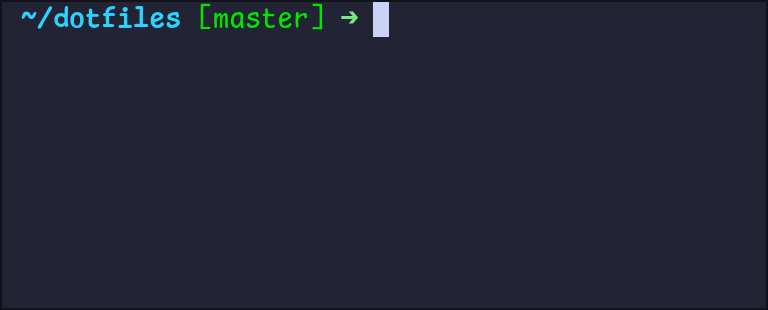
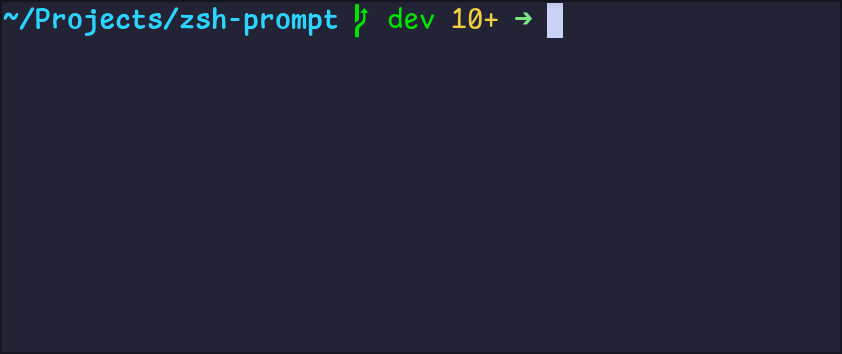
added theme generation, moved information to data.json, updated vcs info, better vcs tracking

Changed region(s): [[0.0, 0.0, 0.6875, 0.1161]]

diff --git a/generate.py b/generate.py
@@ -1,13 +1,30 @@
-COLOR1=#2bd4ff
-COLOR2=#00e600
-COLOR3=#9fffcb
-COLOR4=#7ae582
-COLOR_CHANGE=#f4d03f
+def obj_get(config):
+    return lambda key, default_value="": config[key] if key in config else default_value
 
-ICON_LEFT=""
-ICON_RIGHT=""
-ICON_ARROW="➔"
-ICON_VCS_BRANCH=""
+
+def generate(config):
+    get = obj_get(config)
+
+    COLOR1 = get("COLOR1", "#ffffff")
+    COLOR2 = get("COLOR2", "#ffffff")
+    COLOR3 = get("COLOR3", "#ffffff")
+    COLOR4 = get("COLOR4", "#ffffff")
+    COLOR_CHANGE = get("COLOR_CHANGE", "#ffffff")
+    ICON_LEFT = get("ICON_LEFT", "")
+    ICON_RIGHT = get("ICON_LEFT", "")
+    ICON_ARROW = get("ICON_ARROW", ">")
+    ICON_VCS_BRANCH = get("ICON_BRANCH")
+
+    return r"""COLOR1={}
+COLOR2={}
+COLOR3={}
+COLOR4={}
+COLOR_CHANGE={}
+
+ICON_LEFT="{}"
+ICON_RIGHT="{}"
+ICON_ARROW="{}"
+ICON_VCS_BRANCH="{}"
 
 autoload -Uz vcs_info
 autoload -Uz add-zsh-hook
@@ -15,20 +32,20 @@ autoload -Uz add-zsh-hook
 zstyle ":vcs_info:*" enable git svn
 zstyle ":vcs_info:*" check-for-changes true
 
-git_info() {
+git_info() {{
   local ref
   ref=$(git symbolic-ref HEAD 2> /dev/null) || \
   ref=$(git rev-parse --short HEAD 2> /dev/null) || return 0
 
-  local branch="${ref#refs/heads/}"
+  local branch="${{ref#refs/heads/}}"
 
-  local changes=$(git status --porcelain | awk '{print substr($0, 1, 2)}' | sort | uniq -c | sed -e 's/^[[:space:]]*//')
+  local changes=$(git status --porcelain | awk '{{print substr($0, 1, 2)}}' | sort | uniq -c | sed -e 's/^[[:space:]]*//')
 
   local change_status=""
 
   while IFS= read -r line; do
-    count=$(echo $line | awk '{print $1}')
-    code=${line: -2}
+    count=$(echo $line | awk '{{print $1}}')
+    code=${{line: -2}}
 
     case "$code" in
       "??") untracked=$((untracked + count)) ;;
@@ -57,23 +74,23 @@ git_info() {
   fi
 
   echo $res
-}
+}}
 
-text_bg() {
-  echo "%{%F{$1}%K{$2}%}"
-}
+text_bg() {{
+  echo "%{{%F{{$1}}%K{{$2}}%}}"
+}}
 
-text() {
-  echo "%F{$1}"
-}
+text() {{
+  echo "%F{{$1}}"
+}}
 
-bg() {
-  echo "%K{$1}"
-}
+bg() {{
+  echo "%K{{$1}}"
+}}
 
 local reset="%f%k"
 
-build_prompt() {
+build_prompt() {{
   local p=""
 
   p+=$(text $COLOR1)
@@ -89,7 +106,7 @@ build_prompt() {
   p+=$reset
 
   PROMPT="$p "
-}
+}}
 
 setopt prompt_subst
 
@@ -97,3 +114,14 @@ add-zsh-hook precmd build_prompt
 add-zsh-hook chpwd build_prompt
 
 build_prompt
+""".format(
+        COLOR1,
+        COLOR2,
+        COLOR3,
+        COLOR4,
+        COLOR_CHANGE,
+        ICON_LEFT,
+        ICON_RIGHT,
+        ICON_ARROW,
+        ICON_VCS_BRANCH,
+    )

diff --git a/setup.py b/setup.py
@@ -1,0 +1,93 @@
+#!/usr/bin/env python3
+
+import os
+import json
+from generate import generate
+from os.path import isfile
+from util import prompt, yn
+
+print(
+    """
+__        __   _                          _
+\\ \\      / /__| | ___ ___  _ __ ___   ___| |
+ \\ \\ /\\ / / _ \\ |/ __/ _ \\| '_ ` _ \\ / _ \\ |
+  \\ V  V /  __/ | (_| (_) | | | | | |  __/_|
+   \\_/\\_/ \\___|_|\\___\\___/|_| |_| |_|\\___(_)
+
+"""
+)
+
+root = os.path.expanduser("~") + "/shiko-prompt/"
+
+
+def pick_prebuilt():
+    themes = root + "themes/"
+    prebuilt_themes = themes + "prebuilt/"
+
+    previous = []
+    prebuilt = []
+    for filename in os.listdir(themes):
+        file_path = os.path.join(themes, filename)
+
+        if isfile(file_path):
+            previous.append(file_path)
+
+    for filename in os.listdir(prebuilt_themes):
+        file_path = os.path.join(prebuilt_themes, filename)
+
+        if isfile(file_path):
+            prebuilt.append(file_path)
+
+    print(f"Previous themes: {len(previous)}")
+    for i in range(len(previous)):
+        print(f"{i + 1}. {previous[i]}")
+    print(f"Prebuilt themes: {len(prebuilt)}")
+    for i in range(len(prebuilt)):
+        print(f"{i + 1}. {prebuilt[i]}")
+
+    print("Would you like to use a previously generated theme or a prebuilt theme?")
+    prev_or_prebuilt = prompt(["Previously generated", "Prebuilt"])
+
+    theme = ""
+
+    print("Pick a theme:")
+    if prev_or_prebuilt == 1:
+        theme = previous[prompt(previous) - 1]
+    elif prev_or_prebuilt == 2:
+        theme = prebuilt[prompt(prebuilt) - 1]
+
+    try:
+        with open(theme) as f:
+            json_cfg = dict(json.load(f))
+
+            cfg = generate(json_cfg)
+
+            print("Config generated!")
+            print(cfg)
+            save = yn("Would you like to save this prompt?")
+
+            if save:
+                with open(root + "prompt.zsh", "w") as f:
+                    f.write(cfg)
+                    return
+            else:
+                print("Changes discarded. Exiting...")
+                exit(0)
+    except Exception as e:
+        print(f"An error occurred: {e}")
+
+    pass
+
+
+def build_own():
+    pass
+
+
+if __name__ == "__main__":
+    options_funcs = [pick_prebuilt, build_own, exit]
+    options = ["Use a prebuilt theme", "Build your own theme", "Exit"]
+
+    choice = prompt(options)
+
+    options_funcs[int(choice) - 1]()
+    print("Run 'source ~/.zshrc' to see the new changes!")

diff --git a/util.py b/util.py
@@ -1,0 +1,30 @@
+from typing import List
+
+
+def prompt(options: List[str]) -> int:
+    while True:
+        for i in range(len(options)):
+            print(f"{i + 1}. {options[i]}")
+        try:
+            choice = int(input("> "))
+            if choice < 1 or choice > len(options):
+                raise Exception()
+            return choice
+        except KeyboardInterrupt:
+            print("Exiting...")
+            exit()
+        except:
+            print("Invalid choice, please try again")
+
+
+def yn(prompt: str, default_value=True) -> bool:
+    while True:
+        choice = input(f"{prompt} ({"Y/n" if default_value else "y/N"}) ")
+
+        if choice.strip() == "":
+            return default_value
+        elif choice.strip().lower() == "y":
+            return True
+        elif choice.strip().lower() == "n":
+            return False
+        print("Invalid choice, please try again")

diff --git a/README.md b/README.md
@@ -8,11 +8,15 @@
 ### With VCS information
 ![With VCS](./images/with_vcs.png)
 
+## Dependencies
+Install the following dependencies: `python git sed`
+Ex: `sudo pacman -Syu python git sed` (Arch Linux)
+
 ## Installation
 1. Clone the repository - `git clone https://github.com/regarager/shiko-prompt`
 2. Move repository into home-folder (or other preferred directory) - `mv shiko-prompt ~`
-3. Add the following line to the top of the - `source ~/shiko-prompt/prompt.zsh`
+3. Run the setup script - `python setup.py`
 4. Enjoy!
 
 ## Customization
-- Customization: change color variables at the top of `prompt.zsh`
+Customization may be done with the setup script - `python setup.py`
